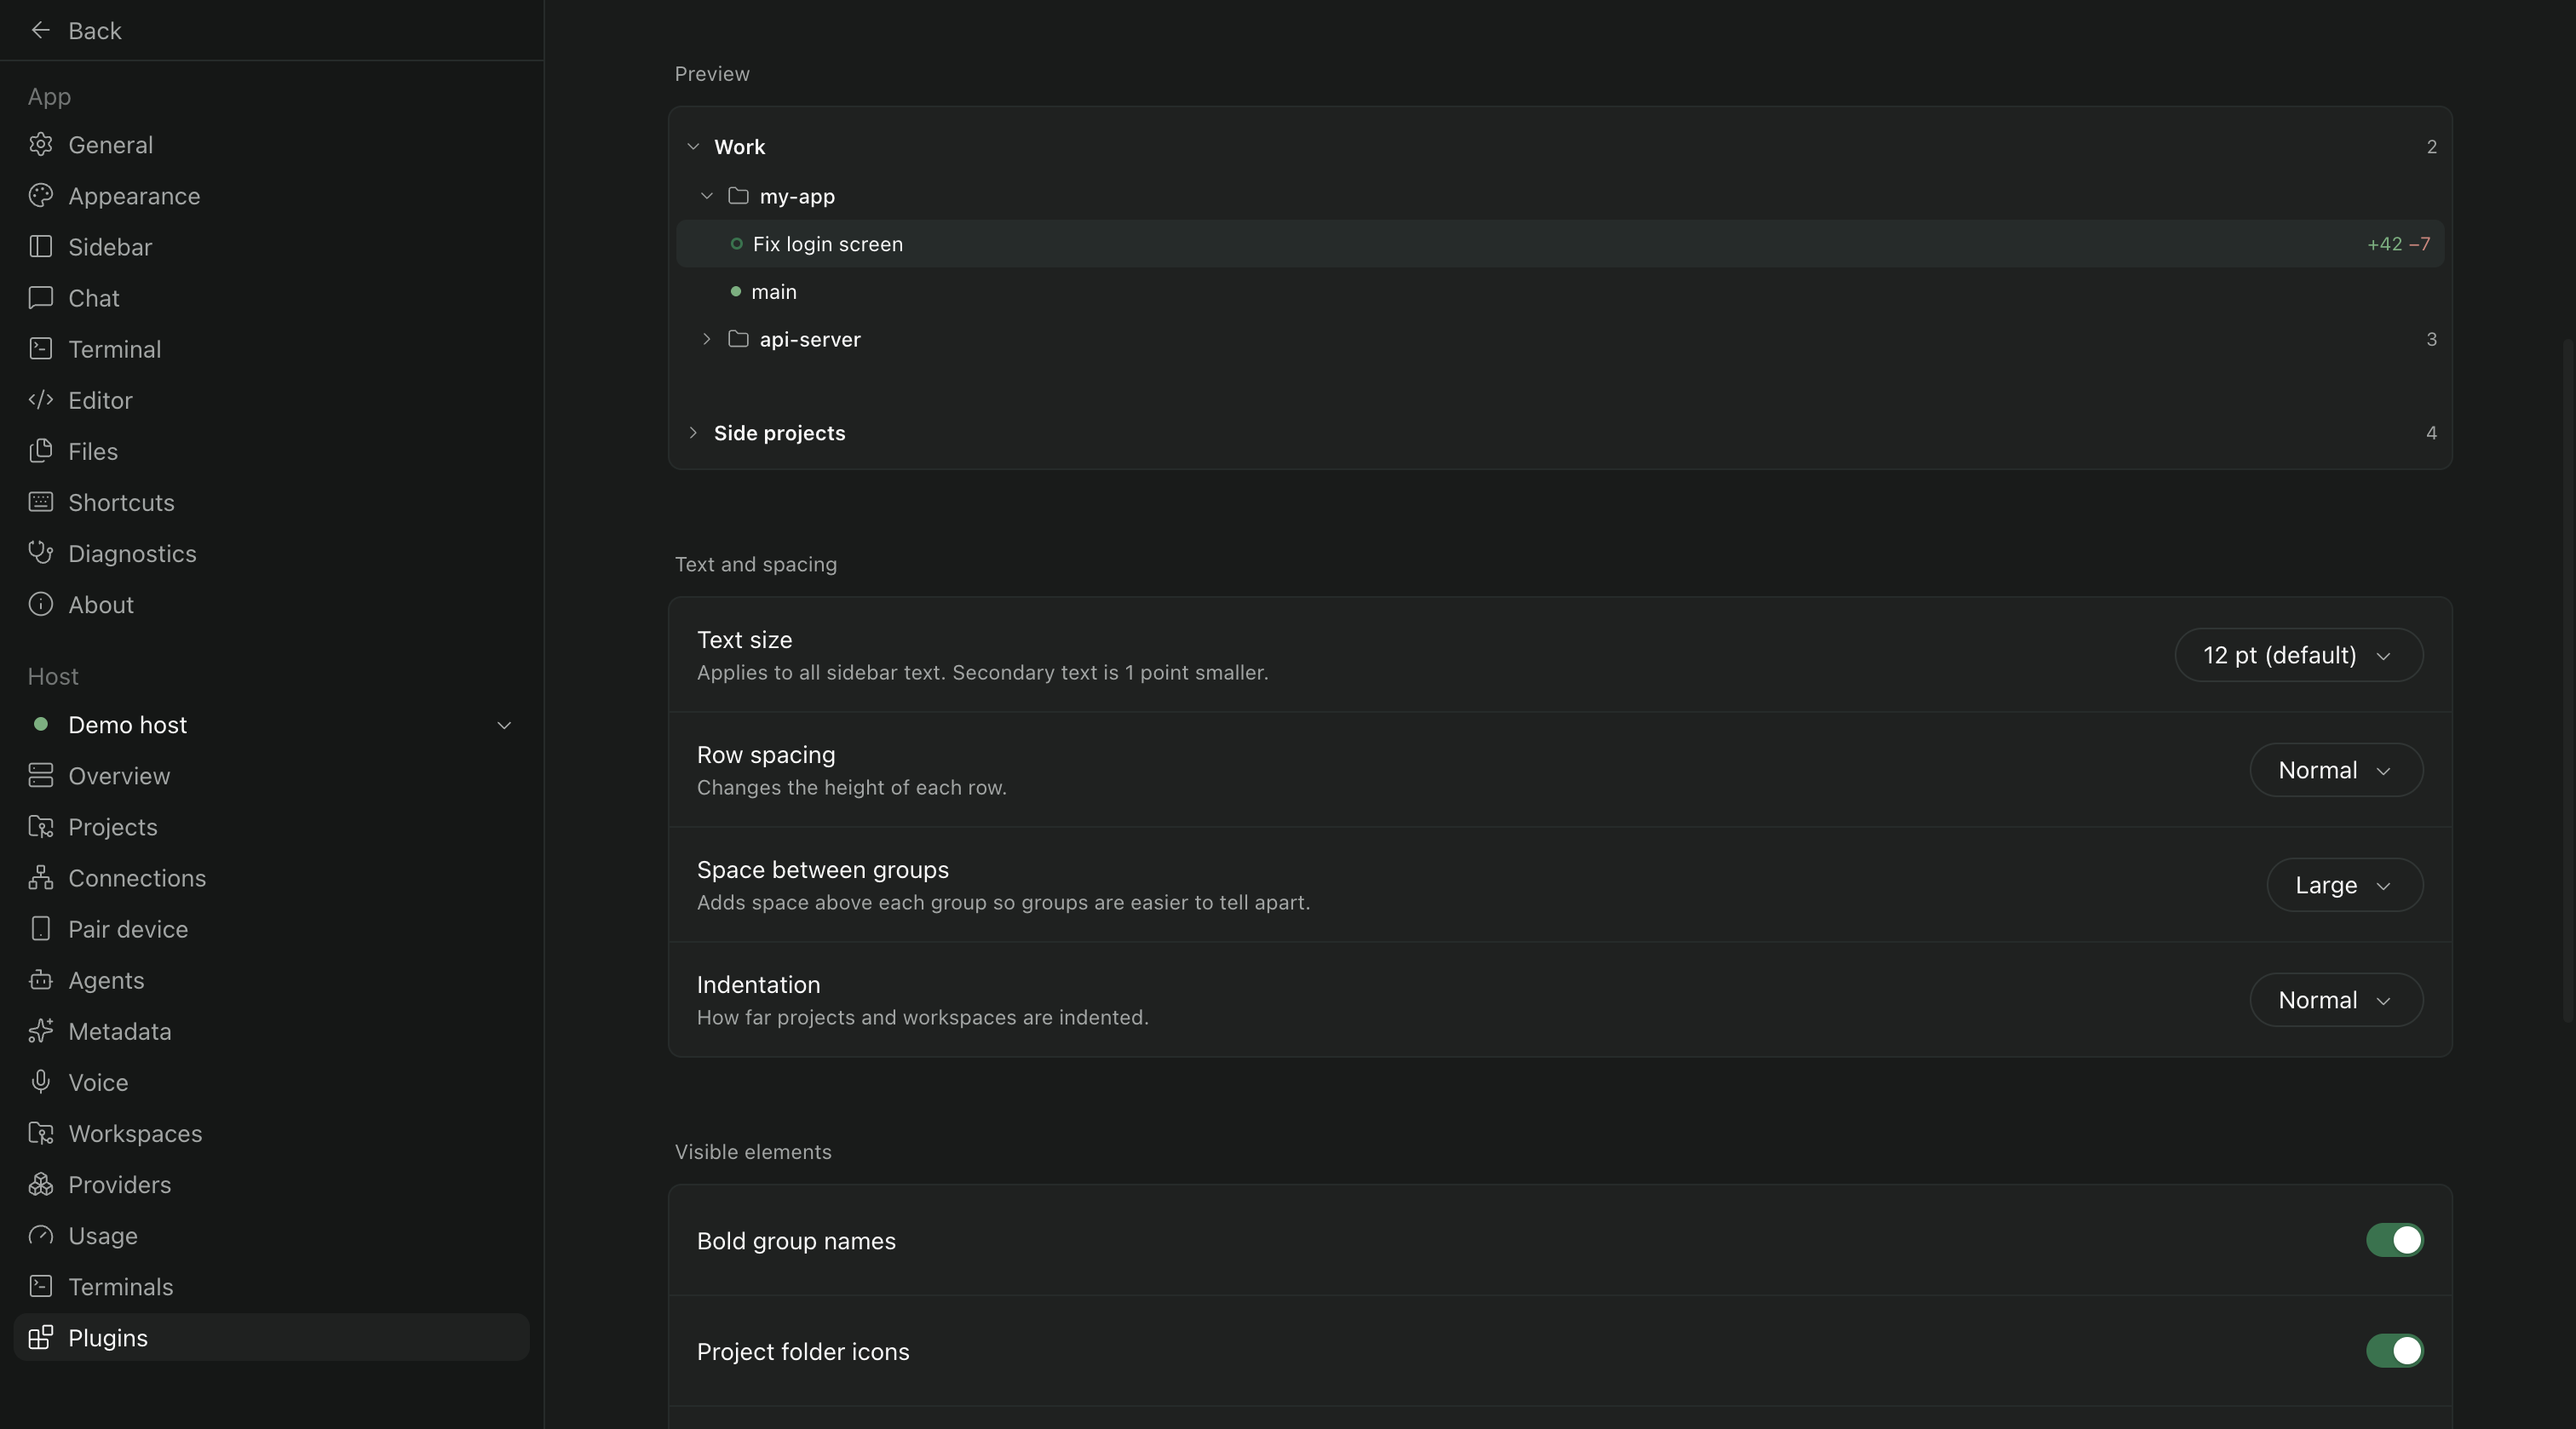
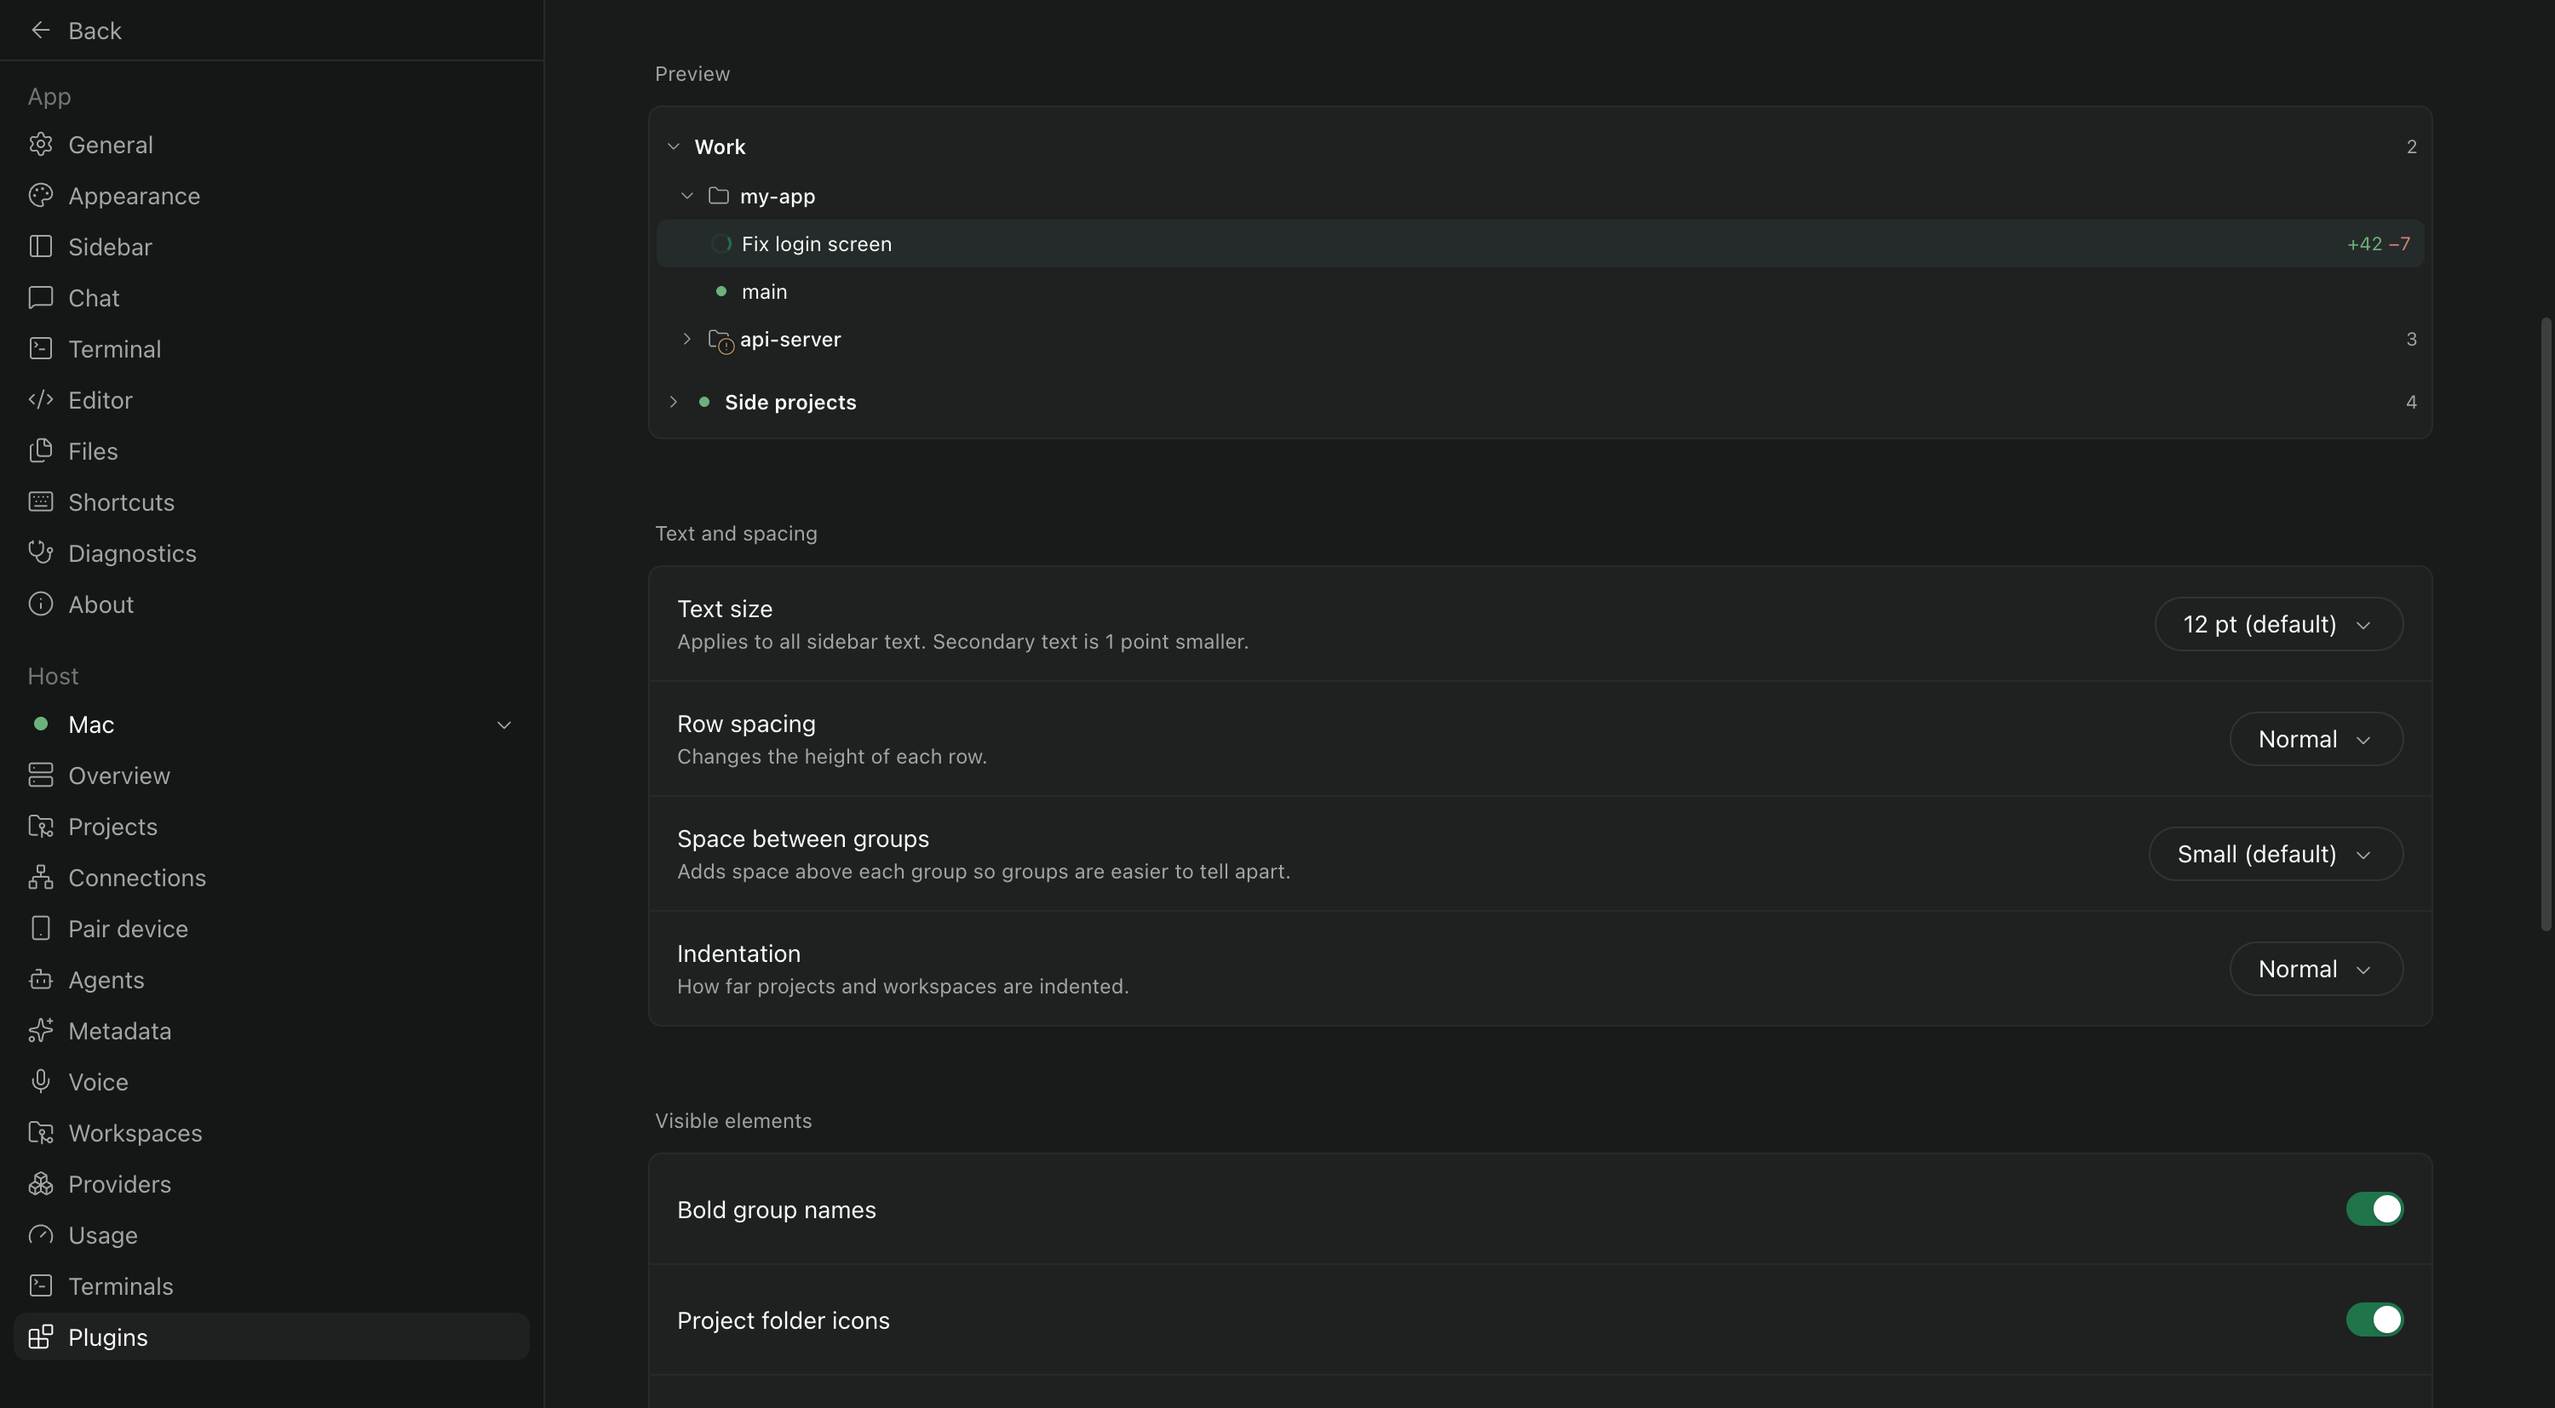
Update docs and screenshots for sub-projects and several hosts
- Docs: name both commands the parent check runs (`paseo daemon status` and
  `paseo project ls`), add `npm test` to the README, describe several hosts
  and the host name tag setting in all overviews, and align the Chinese icon
  paragraph and update note with the English and Korean ones.
- Sidebar screenshot: two demo hosts with host tags and Ungrouped split by
  host, a sub-project, and a folded group lit because it holds the open
  workspace.
- Settings screenshot: the current preview with the spinner and folded-row
  status.

diff --git a/OVERVIEW.zh-CN.md b/OVERVIEW.zh-CN.md
@@ -26,15 +26,25 @@
 - 在同一菜单中选择**移回顶层**即可移出，它会回到父项目之后。移到分组或拖到分组也可以。
 - 删除父项目后，子项目会占据父项目原来的位置。
 
+## 多主机
+
+应用连接多个主机时，所有主机的项目都会显示在此视图中。
+
+- 未分组按主机拆分，例如“未分组 · Mac”。新项目会进入其所属主机的分区。
+- 分组内的项目名称后会显示主机名标签，同名项目也能区分。可在设置中通过**主机名标签**关闭。
+- 一个分组可以包含多个主机的项目。项目所属主机不会改变，拖到其他主机的未分组时仍会回到自己的分区。
+- 标签使用 Paseo 设置中的主机名称。名称相同时，请在**设置 → 主机 → 概览**中修改。
+- 分组保存在提供此视图的主机上。其他主机离线时，其项目会暂时隐藏，重新连接后回到原位置。
+
 ## 图标与颜色
 
 点击项目图标或分组的调色板按钮，可选 11 种颜色、36 个图标，也可输入一个表情。工作区颜色在其 ⋯ 菜单中设置。颜色应用于名称和图标，仅在本视图中显示。
 
-项目默认使用 Paseo 原有图标；手动选择图标或表情后优先显示自定义项，重置后恢复原图。图像不可用时显示文件夹。支持当前主机的 PNG、JPEG、GIF、WebP，以及 Paseo 插件渲染器支持的独立 SVG。
+项目默认显示其在 Paseo 中设置的图片，没有图片时显示文件夹。重置图标即可恢复项目自己的图片。支持 PNG、JPEG、GIF、WebP，以及不加载外部文件的 SVG。
 
 ## 外观
 
-点击**新建分组**旁的设置按钮，可调整字号（11–15 磅）、行高、分组间距和缩进，并选择是否显示加粗分组名、项目图标、状态点、折叠行的状态、变更行数和置顶区域。
+点击**新建分组**旁的设置按钮，可调整字号（11–15 磅）、行高、分组间距和缩进，并选择是否显示加粗分组名、项目图标、主机名标签、状态点、折叠行的状态、变更行数和置顶区域。
 
 语言支持跟随应用，或手动选择 English、한국어、简体中文。外观和语言按设备保存，手机与电脑可分别设置。
 
@@ -44,10 +54,10 @@
 
 移除项目会在主机上执行 `paseo project delete`，归档该项目的工作区，保留磁盘上的项目文件夹。归档时，Paseo 创建的工作树文件夹可能被删除，确认弹窗会提前提示。
 
-子项目的父项目从列表中消失时，插件会通过 `paseo project ls` 向守护进程确认它是否仍存在，只有确认已删除时才清理，因此列表加载中不会丢失子项目关系。
+子项目的父项目从列表中消失时，插件会通过 `paseo daemon status` 和 `paseo project ls` 向守护进程确认它是否仍存在，只有确认已删除时才清理，因此列表加载中不会丢失子项目关系。
 
 ## 限制
 
-- 更新时请使用插件页面的更新功能，不要先卸载；卸载会删除已存分组、颜色和图标。
+- 更新时请使用插件页面的更新功能或 `paseo plugin update project-groups`，不要先卸载；卸载会删除已存分组、颜色和图标。
 - 工作区属于各自的项目，无法拖动移动。
 - 守护进程和客户端均需 Paseo 0.16 或更新版本。旧客户端会保留默认侧栏。

diff --git a/OVERVIEW.md b/OVERVIEW.md
@@ -34,6 +34,16 @@ A project can sit under another project, for example a folder of plugins under t
 - To take it out, pick **Back to top level** in the same menu. It lands right after its parent. Moving it to a group, or dragging it to one, works too.
 - If the parent is removed, its sub-projects take its place in its group.
 
+## Several hosts
+
+When the app is connected to more than one host, projects from all of them show in this view.
+
+- Ungrouped splits into one section per host, such as "Ungrouped · Mac". A new project lands in its own host's section.
+- Projects inside groups get a small host tag after their name, so two projects with the same name can be told apart. Turn the tags off with **Host name tags** in the settings.
+- A group can hold projects from different hosts. A project's host never changes, so dropping it on another host's Ungrouped sends it back to its own.
+- Tags use the host names from Paseo's settings. If two hosts look the same, rename one under **Settings → Host → Overview**.
+- Groups are saved on the host that provides this view. While another host is offline, its projects are hidden, and they come back in the same place when it reconnects.
+
 ## Colors and icons
 
 Projects show the image you gave them in Paseo, or a folder when they have none.
@@ -51,7 +61,7 @@ The sliders button next to New group opens the plugin's settings. You can change
 - space between groups, from none to extra large
 - how far projects and workspaces are indented
 - whether group names are bold
-- which details show: project icons, status dots, status on folded rows, changed-line counts, the Pinned section
+- which details show: project icons, host name tags, status dots, status on folded rows, changed-line counts, the Pinned section
 - the language: same as the app, English, Korean or Simplified Chinese
 
 Settings are saved per device, so your phone and your computer can look different.
@@ -62,7 +72,7 @@ Groups, their order, colors and icons are saved in the plugin's settings on the 
 
 Removing a project runs `paseo project delete` on the daemon's machine, because the plugin API has no call for it. Paseo archives the project's workspaces and leaves the project folder on disk. Worktrees that Paseo created for those workspaces can be deleted when they are archived. The confirm dialog tells you this before anything happens.
 
-When a sub-project's parent disappears from the list, the plugin asks the daemon with `paseo project ls` whether the parent still exists. It cleans up only when the daemon says the parent is gone, so a list that is still loading never loses your nesting.
+When a sub-project's parent disappears from the list, the plugin asks the daemon with `paseo daemon status` and `paseo project ls` whether the parent still exists. It cleans up only when the daemon says the parent is gone, so a list that is still loading never loses your nesting.
 
 ## Limits
 

diff --git a/README.md b/README.md
@@ -23,6 +23,7 @@ Installing does not change the sidebar. Open **Settings → Sidebar** and set **
 - Make groups with **New group** at the top of the sidebar, then drag projects into them.
 - Drag group headers to reorder groups. Fold the ones you aren't using.
 - Put a project under another project from its ⋯ menu (one level deep).
+- With several hosts connected, Ungrouped splits by host and grouped projects show a host tag.
 - Give groups and projects a color and an icon or emoji. Workspaces get a color.
 - Projects use their Paseo image unless you choose a plugin icon or emoji.
 - Folded projects and groups show the most urgent workspace status on their icon, and a light fill when they hold the workspace you have open.
@@ -38,7 +39,7 @@ Paseo 0.16 or later on both the daemon and the app, with plugins enabled. Sideba
 
 ## Data
 
-Groups, colors and icons are saved in the plugin's settings on the daemon, so every connected app sees the same groups. Appearance and folding are saved per device. Removing a project runs `paseo project delete` on the daemon's machine, since the plugin API has no call for it. When a sub-project's parent is missing from the list, the plugin asks that daemon (through `paseo project ls`) whether the parent still exists, and cleans up only when the daemon says it doesn't. Project icons are read from that daemon over a local connection; no external service is contacted.
+Groups, colors and icons are saved in the plugin's settings on the daemon, so every connected app sees the same groups. Appearance and folding are saved per device. Removing a project runs `paseo project delete` on the daemon's machine, since the plugin API has no call for it. When a sub-project's parent is missing from the list, the plugin asks that daemon (with `paseo daemon status` and `paseo project ls`) whether the parent still exists, and cleans up only when the daemon says it doesn't. Project icons are read from that daemon over a local connection; no external service is contacted.
 
 Uninstalling the plugin deletes the saved groups. To get a new version, use `paseo plugin update project-groups` instead.
 
@@ -47,6 +48,7 @@ Uninstalling the plugin deletes the saved groups. To get a new version, use `pas
 ```bash
 npm install
 npm run typecheck
+npm test
 paseo plugin install "$PWD"
 paseo plugin reload project-groups
 ```
